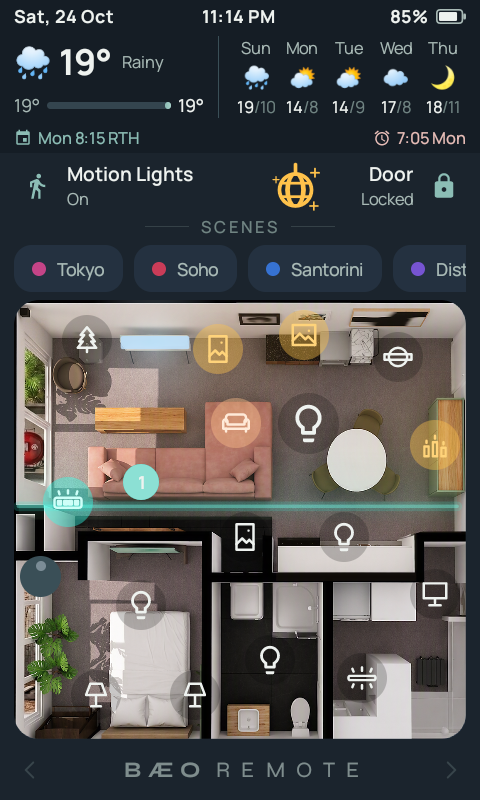
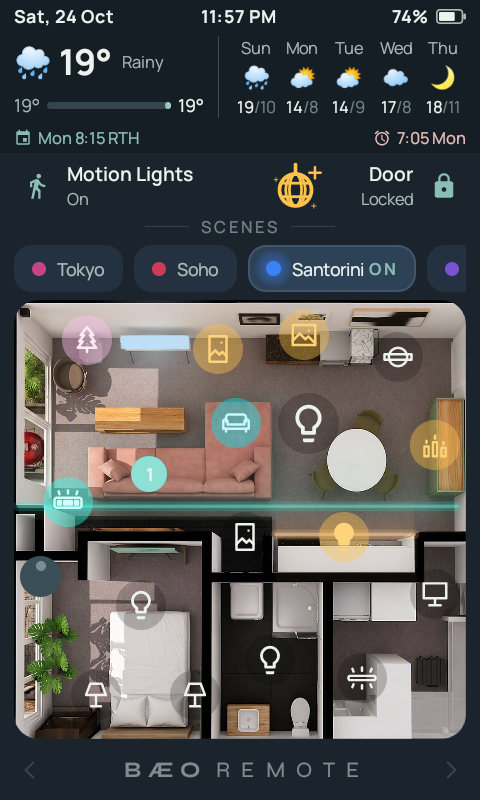
README: lighting screenshots with the new night glow
Re-shot on 113 after the sofa and TV halos, kitchen strip and warmer
candles: the 3x3 grid plus main, day, dusk and night. Motion Lights was
paused for the two night shots so it didn't switch lights back on.

diff --git a/README.md b/README.md
@@ -72,7 +72,7 @@ The floorplan follows the sun and every light in the flat. As the sun drops, a s
 | ![Floorplan by day](screenshots/floorplan-day.png) | ![Floorplan at dusk](screenshots/floorplan-dusk.png) | ![Floorplan at night](screenshots/floorplan-night.png) |
 
 * **Sun-synced shading:** the shade eases in through civil twilight, from sun.sun's elevation. Light pools are faint by day and come up with the dark.
-* **Lights as they look:** pools take each light's colour and brightness. The Club LED is a cove strip on a rail under the ceiling, so it draws as a dim rail with a wash of its colour spilling into the room (`glow_line`, `glow_toward`).
+* **Lights as they look:** pools take each light's colour and brightness, with a hot core and a soft tail. The Club LED is a cove strip on a rail under the ceiling, so it draws as a dim rail with a wash of its colour spilling into the room (`glow_line`, `glow_toward`). Hidden strips halo what they sit under or behind (`glow_outline`): the sofa's underglow and the Hue Play bars round the TV. The kitchen strips light the counter.
 * **Screens:** the TV lights up on the plan while it is on, including on the PC input (`also_on`).
 * **Interactive Control:** Tap any bulb to toggle room lighting, or long-press to open the full-screen brightness and color tuning slider.
 * **mmWave Radar Presence:** Real-time target tracking dots driven by LD2450 sensors plotted over the apartment layout.
